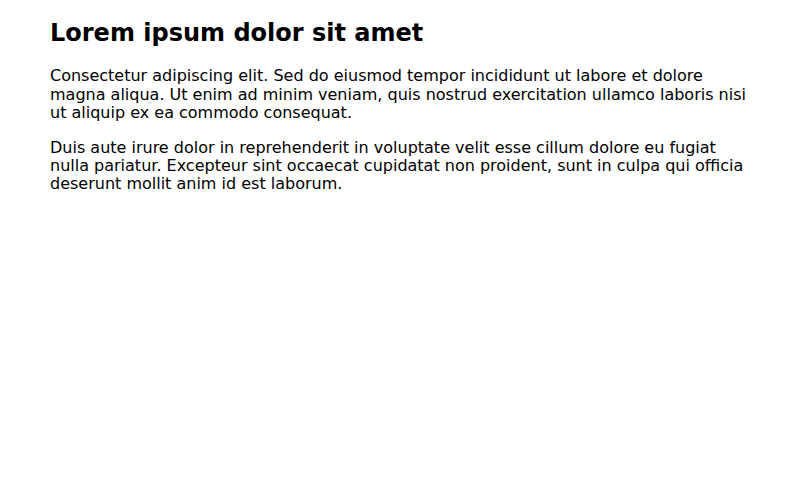
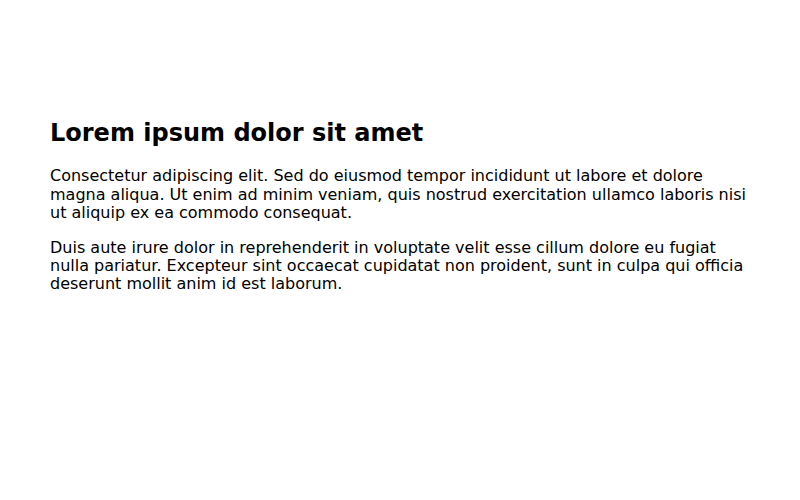
Working on defaults

Changed region(s): [[0.0625, 0.12, 0.9375, 0.45], [0.0625, 0.48, 0.9375, 0.6], [0.0625, 0.03, 0.5312, 0.09]]

diff --git a/app/Widgets/EventRegistration/EventRegistrationDefinition.php b/app/Widgets/EventRegistration/EventRegistrationDefinition.php
@@ -39,7 +39,19 @@ class EventRegistrationDefinition extends WidgetDefinition
             'event_slug' => '',
         ];
     }
-
+   public function demoAppearanceConfig(): array
+    {
+        return [
+            'layout'     => [
+                'padding' => [
+                    'top'    => '100',
+                    'left'   => '0',
+                    'right'  => '0',
+                    'bottom' => '75',
+                ],
+            ],
+        ];
+    }
     public function requiredConfig(): ?array
     {
         return ['keys' => ['event_slug'], 'message' => 'Select an event to display its registration form.'];

diff --git a/app/Widgets/TextBlock/TextBlockDefinition.php b/app/Widgets/TextBlock/TextBlockDefinition.php
@@ -82,7 +82,19 @@ class TextBlockDefinition extends WidgetDefinition
                 . 'Excepteur sint occaecat cupidatat non proident, sunt in culpa qui officia deserunt mollit anim id est laborum.</p>',
         ];
     }
-
+   public function demoAppearanceConfig(): array
+    {
+        return [
+            'layout'     => [
+                'padding' => [
+                    'top'    => '100',
+                    'left'   => '50',
+                    'right'  => '50',
+                    'bottom' => '75',
+                ],
+            ],
+        ];
+    }
     public function presets(): array
     {
         return [

diff --git a/app/Widgets/SocialSharing/SocialSharingDefinition.php b/app/Widgets/SocialSharing/SocialSharingDefinition.php
@@ -30,7 +30,19 @@ class SocialSharingDefinition extends WidgetDefinition
     {
         return ['scss' => ['app/Widgets/SocialSharing/styles.scss']];
     }
-
+   public function demoAppearanceConfig(): array
+    {
+        return [
+            'layout'     => [
+                'padding' => [
+                    'top'    => '100',
+                    'left'   => '0',
+                    'right'  => '0',
+                    'bottom' => '75',
+                ],
+            ],
+        ];
+    }
     public function schema(): array
     {
         return [

diff --git a/app/Widgets/PortalLogin/PortalLoginDefinition.php b/app/Widgets/PortalLogin/PortalLoginDefinition.php
@@ -30,7 +30,19 @@ class PortalLoginDefinition extends WidgetDefinition
     {
         return [];
     }
-
+   public function demoAppearanceConfig(): array
+    {
+        return [
+            'layout'     => [
+                'padding' => [
+                    'top'    => '100',
+                    'left'   => '0',
+                    'right'  => '0',
+                    'bottom' => '75',
+                ],
+            ],
+        ];
+    }
     public function defaults(): array
     {
         return [];
